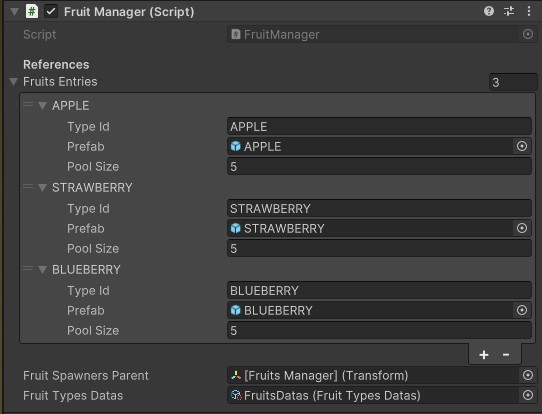
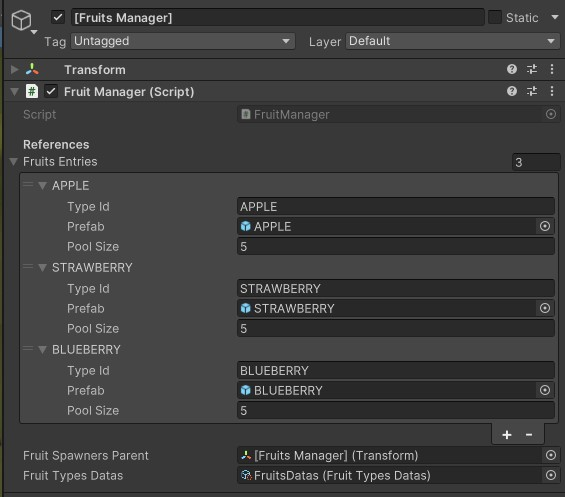
chore: Update French comments in FruitPooler.cs, FruitState.cs, and FruitManager.cs and update documentation

diff --git a/Doc/documentation.md b/Doc/documentation.md
@@ -442,25 +442,80 @@ La classe `GameStats` est une classe qui s'occupe de stocker les statistiques de
 
 ### Gestion des fruits
 
-Le système de gestion des fruits est un des systèmes les plus importants du projet. Il est responsable de la génération des fruits, de leur apparition, de leur disparition, de leur ramassage et de leur comptage. Globalement, le système est composé d'une classe [FruitManager](#fruitmanager) qui centralise toutes les opérations sur les fruits. Ce dernier utilise un [FruitPooler](#fruitpooler) pour gérer les fruits en pool. Il permet de réutiliser les fruits déjà instanciés pour éviter de les créer et de les détruire à chaque fois. Ce système permet de gagner énormément en performance.
+Le système de gestion des fruits est un des systèmes les plus importants du projet. Il est responsable de la génération des fruits, de leur apparition, de leur disparition, de leur ramassage et de leur comptage. 
 
-Un [FruitSpawnerManager](#fruitspawnermanager) est également utilisé pour gérer les [FruitSpawner](#fruitspawner). C'est sur ces derniers que les fruits apparaissent. Ils sont placés sur les arbres et les buissons du jardin en fonction de leurs types (fraise et myrtilles dans des buissons alors que les pommes apparaisent dans les arbres).
+Avant d'aborder les détails du système, il est important de comprendre comment les fruits sont générés. Premièrement, il existe plusieur type de fruits (pommes, fraises, myrtilles). Chaque type de fruit a des caractéristiques différentes (points donnés, vitesse d'apparition, etc). Deuxièmement, les fruits apparaissent sur des arbres ou des buissons. Les pommes apparaissent sur les arbres, les fraises et les myrtilles apparaissent sur les buissons. Ils apparaissent à une vitesse définie :
+
+$$ V_a = \frac{R}{\text{p}} $$
+où :
+
+- $V_a$ est la vitesse d'apparition des fruits. [fruits/s]
+- $p$ (points) est le nombre de points donnés par le fruit.
+- $R$ (rate) est le nombre de fruits qui vont apparaître par seconde (en meme temps).
+
+Chaques fruits ont un temps de vie configurable. Si le joueur ne les ramasse pas avant la fin de leur temps de vie, ils disparaissent. Quand le joueur ramasse un fruit, sa durée de vie est stoppé et ne disparaît pas. C'est seulement quand le joueur lache le fruit qu'il reprend sa durée de vie (qui est remise à zéro). Une fois que le fruit est mis dans le panier des points sont ajoutés au score du joueur.
+
+![uml sequence fruit generation](./Uml/fruit_generation_sequence.svg)
+
+Globalement, le système est composé d'une classe [FruitManager](#fruitmanager) qui centralise toutes les opérations sur les fruits. Ce dernier utilise un [FruitPooler](#fruitpooler) pour gérer les fruits en pool. Il permet de réutiliser les fruits déjà instanciés pour éviter de les créer et de les détruire à chaque fois, cela permet un gain de performance non négligeable.
+
+![fruit manager inspector](./img/fruit_manager_inspector.jpg)
 
 La classe [Fruit](#fruit) représente un fruit dans le jeu. Il contient les informations sur le fruit (type, points, etc) et les méthodes pour le ramasser et le détruire.
+
+Dans l'éditeur Unity, un fruit est représenté par un prefab qui contient un rigidbody, un composant XR Grab Interactable, une source audio et la classe Fruit.
+
+![apple inspector](./img/apple_inspector.jpg)
 
 Pour regrouper et donner un accès facile aux données de chaque fruit, une strucure [FruitTypeData](#fruittypedata) est utilisée. Elle contient les informations sur le fruit (type, points, etc). Cette dernière est utilisée dans [FruitTypesDatas](#fruittypesdatas) une classe héritant de ScriptableObject qui permet de stocker les données des fruits dans l'éditeur Unity.
 
 ![Fruit Types Datas Inspector](./img/fruittypesdatas_inspector.jpg)
 
+Un [FruitSpawnerManager](#fruitspawnermanager) est utilisé pour gérer les [FruitSpawner](#fruitspawner). C'est sur ces derniers que la position des fruits est définie. Ils sont placés sur les arbres et les buissons pour que les fruits apparaissent à ces endroits.
 
-#### Détails et classes
+![fruit spawners](./img/fruit_spawners.jpg)
+
+> les points rouge représentent les spawners de pommes, les verts les fraises et les bleus les myrtilles.
+
+
+
+
+#### Classes du système de fruit
 
 #### FruitManager
 
 Le `FruitManager` est la classe principale du système de gestion des fruits. Elle est responsable a haut niveau de toutes les opérations sur les fruits. Elle implémente un pattern singleton pour donner un accès facile aux autres classes du système ainsi qu'aux autres systèmes.
 
-Cette classe utilise un [FruitPooler](#fruitpooler) pour gérer les fruits en pool. Un [FruitSpawnerManager](#fruitspawnermanager) est également utilisé pour gérer les [FruitSpawner](#fruitspawner) (endroit où les fruits apparaissent).
+Cette classe utilise un [FruitPooler](#fruitpooler) pour gérer les fruits en pool. Un [FruitSpawnerManager](#fruitspawnermanager) est également utilisé pour gérer les [FruitSpawner](#fruitspawner).
 
+Elle contient une référence au [FruitTypesDatas](#fruittypesdatas) qui contient les données des fruits.
+Grâce à la methode `public static GetFruitTypeData(string fruitId)` il est possible de récupérer les données d'un fruit en donnant son id. Cela permet de facilement accéder a ces données depuis d'autres systèmes (par exemple, pour afficher le nom des fruits ramassés dans l'interface de fin de partie).
+
+#### FruitPooler
+
+Le `FruitPooler` est une classe qui gère les fruits en pool. Elle permet de réutiliser les fruits déjà instanciés pour éviter de les créer et de les détruire à chaque fois, cela permet un gain de performance non négligeable.
+
+Son fonctionnement est simple. Au démarrage de la partie, elle instancie un nombre de fruits défini dans l'éditeur Unity. Ces fruits sont ensuite désactivés et organisés dans un dictionaire qui contient l'id du type de fruit et une queue de fruits. Quand un fruit est ramassé, il est désactivé et remis dans la queue. Quand un fruit doit apparaître, il est récupéré de la queue et activé. Si la queue est vide, un nouveau fruit est instancié.
+
+Afin de minimiser un maximum les dépendances entre les classes, l'opération d'instanciation des fruits est passée en paramètre du constructeur de la classe sous la forme d'une `Func<Func<ulong, Fruit>, Fruit>`.
+
+#### Fruit
+
+Un `Fruit` représente un fruit dans le jeu. Il permet de gérer les interactions du joueur avec le fruit (ramassage), gérer sa durée de vie, jouer les différents sons du fruit (apparition, ramassage, collision).
+
+Un fruit peut se trouver dans 3 états différents, représentés par l'énumération [FruitState](#fruitstate).
+
+Quand un fruit apparaît, il est attaché à un [FruitSpawner](#fruitspawner) - sa position est définie par le spawner et la gravité du fruit est désactivée(état `Grabbed`). Si le joueur ne le ramasse pas avant la fin de sa durée de vie, il disparaît et est mis dans l'état `Innactive`.
+Quand le joueur le ramasse, la gravité est activée et le fruit suit le contrôleur du joueur. Si le joueur le lâche, le fruit est remis dans l'état `Neutral`.
+
+#### FruitState
+
+L'énumération `FruitState` représente l'état d'un fruit. Un fruit peut se trouver dans 3 états différents :
+
+- `Innactive` : Le fruit est désactivé.
+- `Attached` : Le fruit est attaché à un [FruitSpawner](#fruitspawner).
+- `Neutral` : Le fruit est actif et peut être ramassé par le joueur. (la gravité est activée).
+- `Grabbed` : Le fruit est ramassé par le joueur et suit le contrôleur.
 
 ### Interface utilisateur
 
